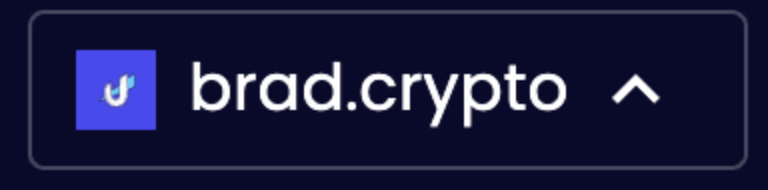
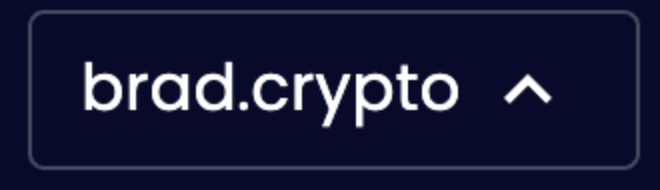
GitBook: [#173] remove PFP image from login UI requirements

Changed region(s): [[0.0909, 0.2368, 0.8788, 0.7105], [0.9394, 0.0526, 1.0, 0.8947], [0.0303, 0.0526, 0.0606, 0.8947]]

diff --git a/src/login-with-unstoppable/login-ui-requirements.md b/src/login-with-unstoppable/login-ui-requirements.md
@@ -32,4 +32,4 @@ Once a user has successfully authenticated, the application should display the u
 
 ### Examples
 
-![UI Example for displaying authenticated user](../.gitbook/assets/second-UI-example-login-domains.png) ![Second UI Example for displaying authenticated user](../.gitbook/assets/brad-crypto-UI-recommendation.png)
+![UI Example for displaying authenticated user](<../.gitbook/assets/second-UI-example-login-domains (1).png>) ![Second UI Example for displaying authenticated user](../.gitbook/assets/brad-crypto-UI-recommendation.png)
